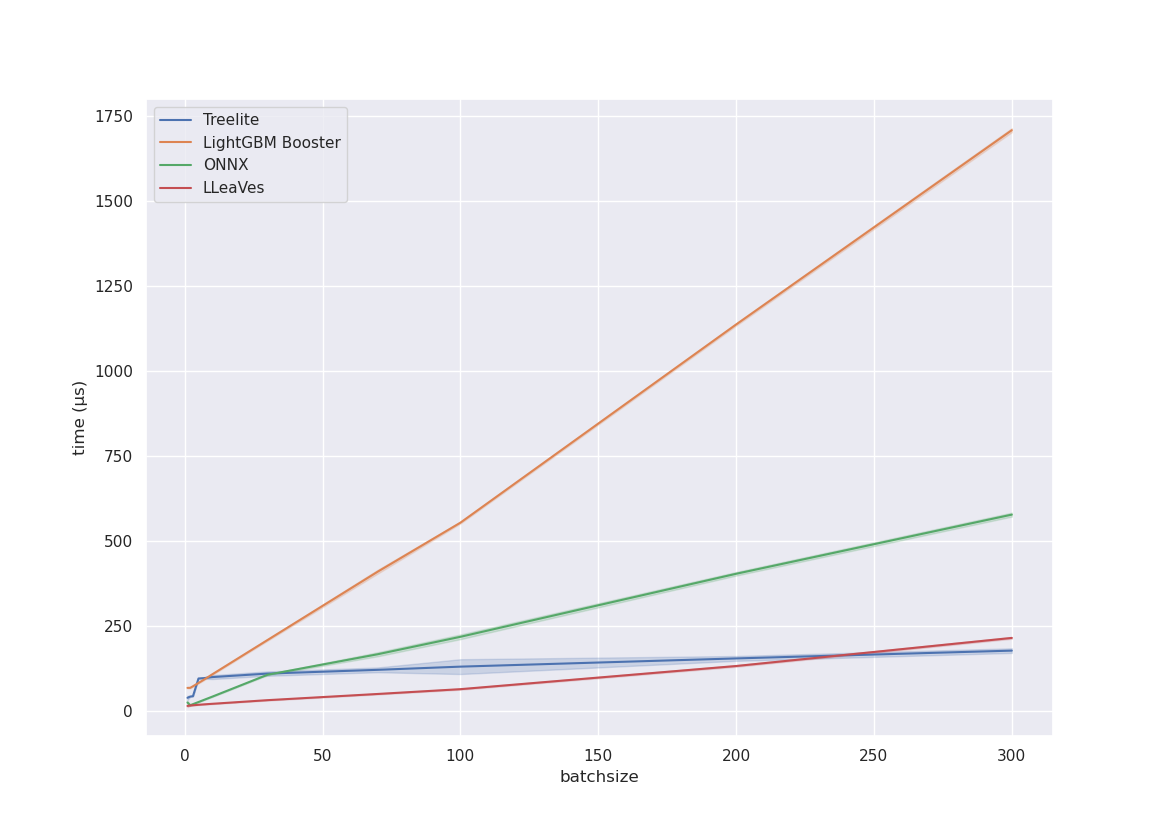
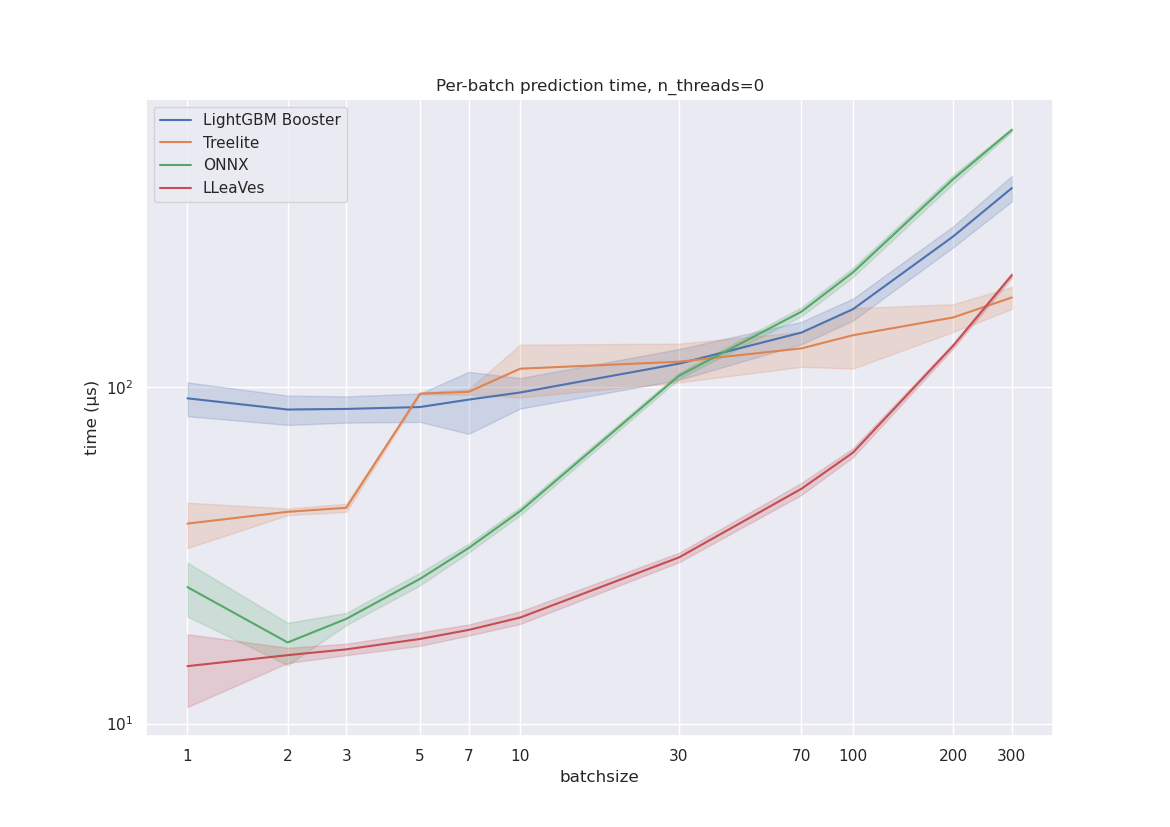
Make multi-threading code logplot

diff --git a/benchmarks/simple_timeit.py b/benchmarks/simple_timeit.py
@@ -63,7 +63,9 @@ class LGBMModel(BenchmarkModel):
         self.model = lightgbm.Booster(model_file=self.model_file)
 
     def predict(self, data, index, batchsize, n_threads):
-        self.model.predict(data[index : index + batchsize], n_jobs=n_threads)
+        self.model.predict(
+            data[index : index + batchsize], n_jobs=n_threads if n_threads else None
+        )
 
 
 class LLVMModel(BenchmarkModel):
@@ -146,12 +148,12 @@ if __name__ == "__main__":
         [model_file_NYC],
         [NYC_X],
     ):
-        fig, ax = plt.subplots()
         print(model_file, "\n")
-        for n_threads in [1, 0]:
+        for n_threads in [0, 1]:
+            fig, ax = plt.subplots()
             for model_class in [
-                TreeliteModel,
                 LGBMModel,
+                TreeliteModel,
                 ONNXModel,
                 LLVMModel,
             ]:

diff --git a/README.md b/README.md
@@ -23,6 +23,7 @@ Some painpoints I'm still ironing out:
 #### Single-threaded prediction on NYC-taxi
 ![img](benchmarks/NYC_taxi_1.png)
 #### Multi-threaded prediction on NYC-taxi 
+Running on Laptop with 4 Cores & Hyperthreading. 
 (Note: LLeaVes has no support for MT so far and is running single-threaded mode)
 ![img](benchmarks/NYC_taxi_0.png)
 
